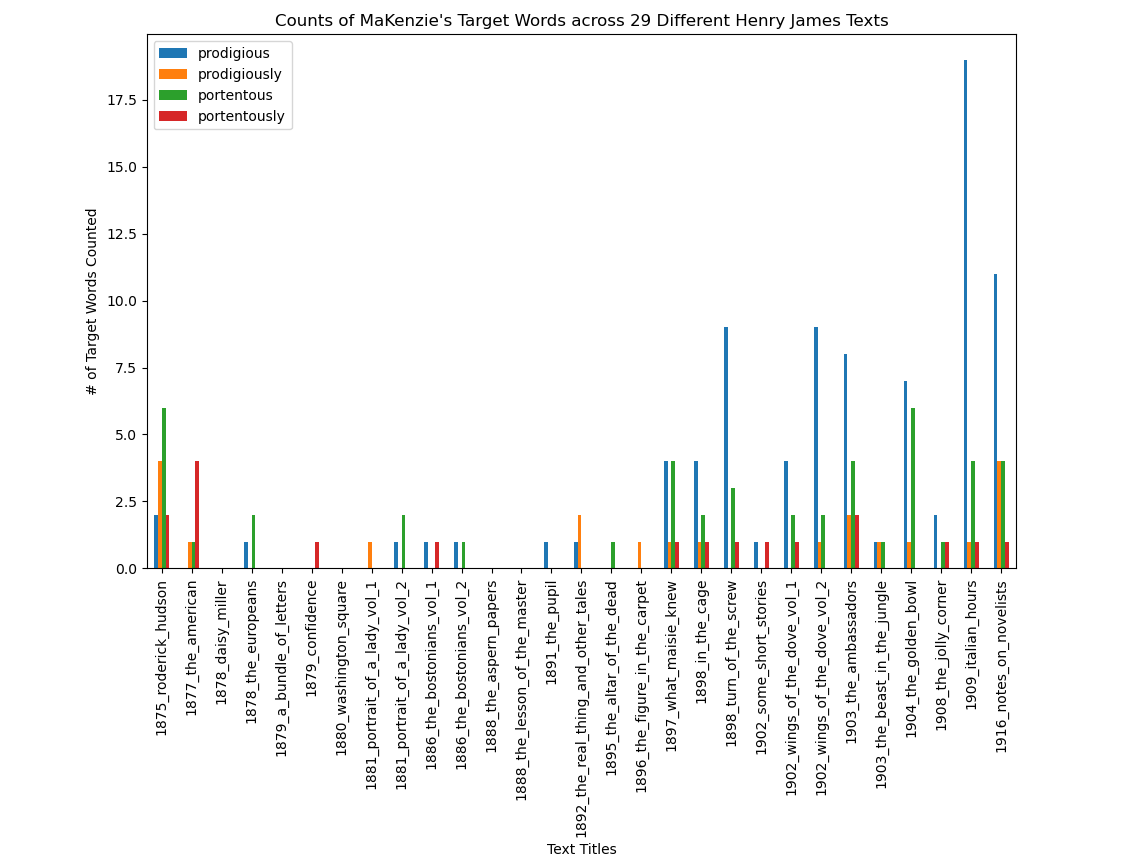
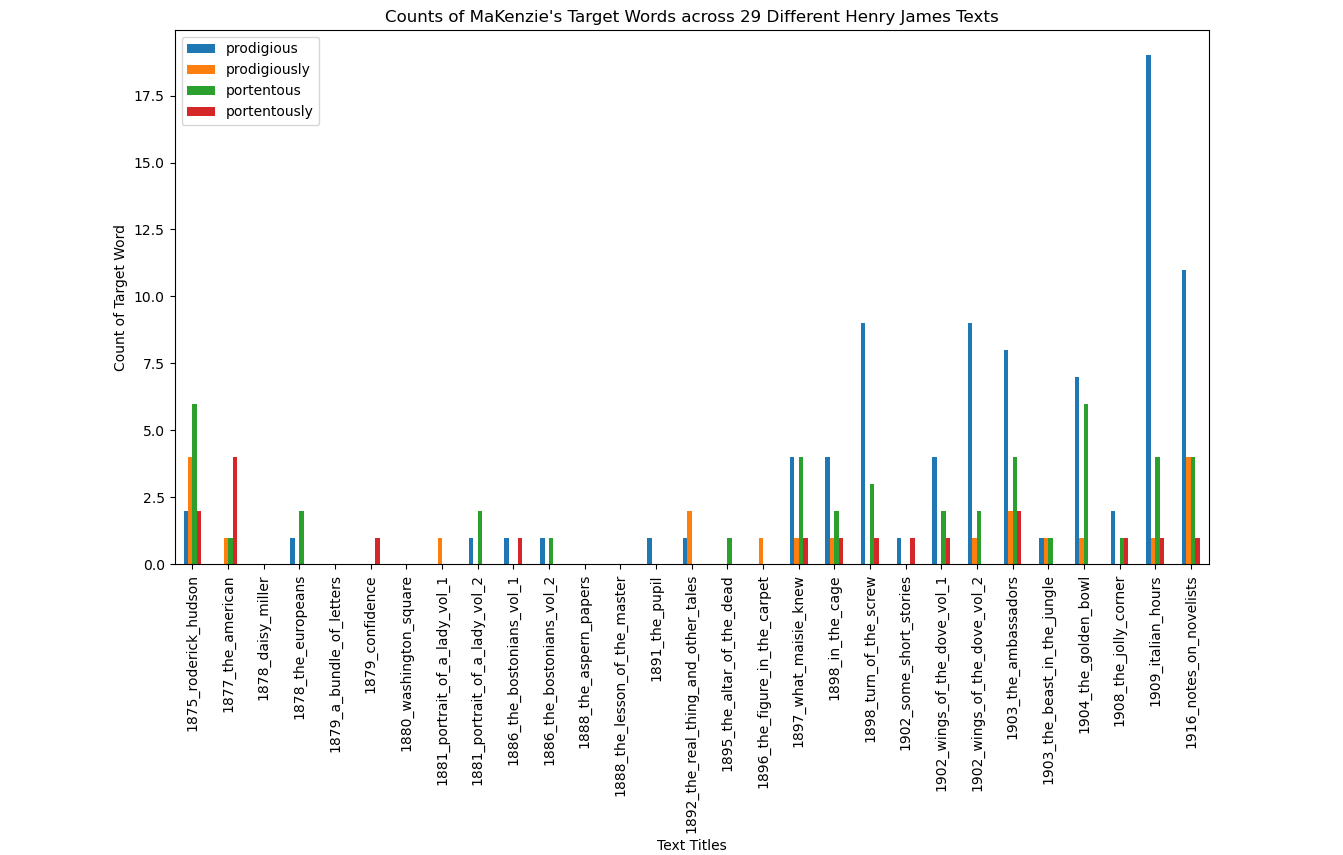
additions

diff --git a/content/posts/2022-05-27-henry-james-turn-of-the-screw-data-analysis.md b/content/posts/2022-05-27-henry-james-turn-of-the-screw-data-analysis.md
@@ -68,6 +68,12 @@ dispersion_plot(tokens, targets, ignore_case=True, title='Lexical Dispersion Plo
 
 After a bunch of conversations with my student about these words, I thought it might be curious to see how the frequency of these words compare over a larger corpus of James's work. Easy enough—I grabbed all the texts I could from [Project Gutenberg by James](https://www.gutenberg.org/ebooks/author/113).
 
+Again, some very simple [Python code](https://github.com/kspicer80/henry_james/blob/main/prodigious_and_portentous_counts.py) can give us counts of these words and lemmas across multiple works by James:
+
+![Counts across James's Corpus](images/imgforblogposts/post_13/prodigious_and_portentous_counts_james_corpus.png)
+
+The code for this graph is available [here]()
+
 
 
 All the code for this post is available in this [repo](https://github.com/kspicer80/henry_james). 
